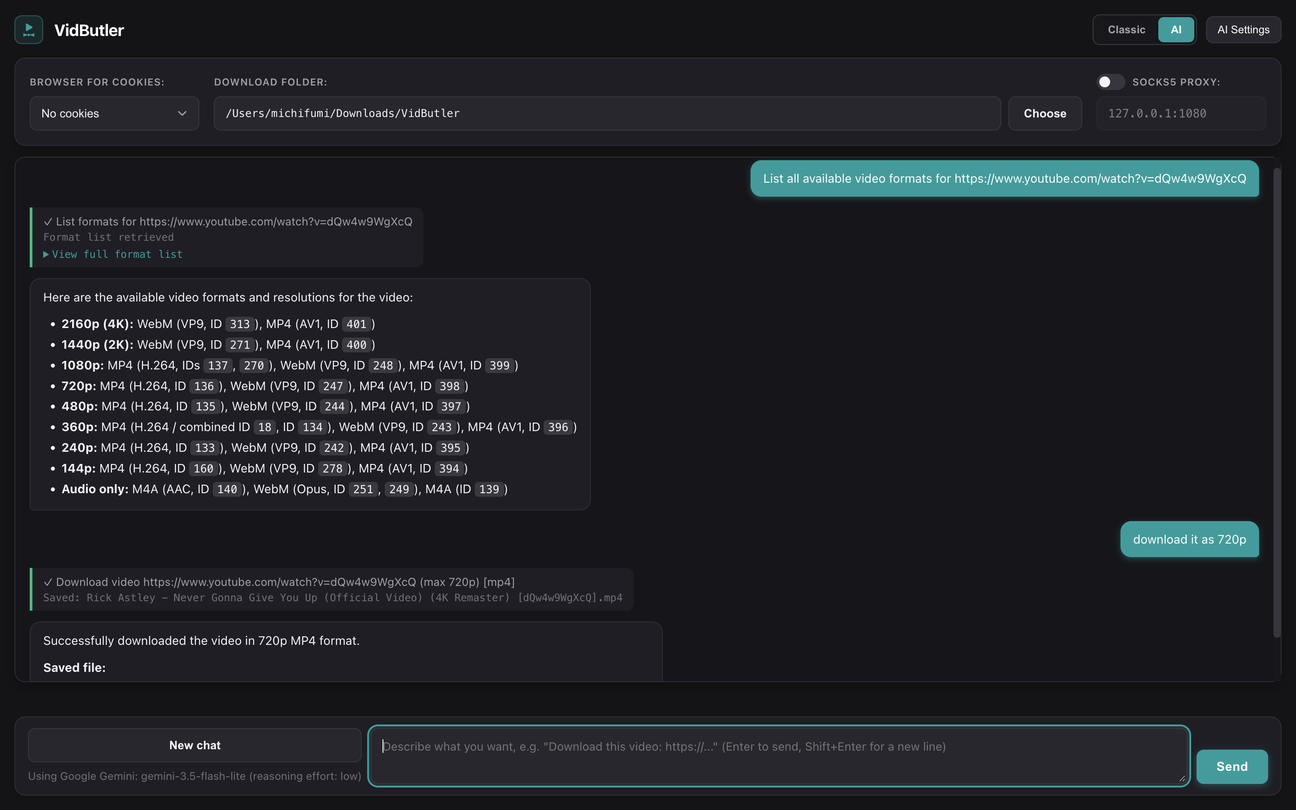
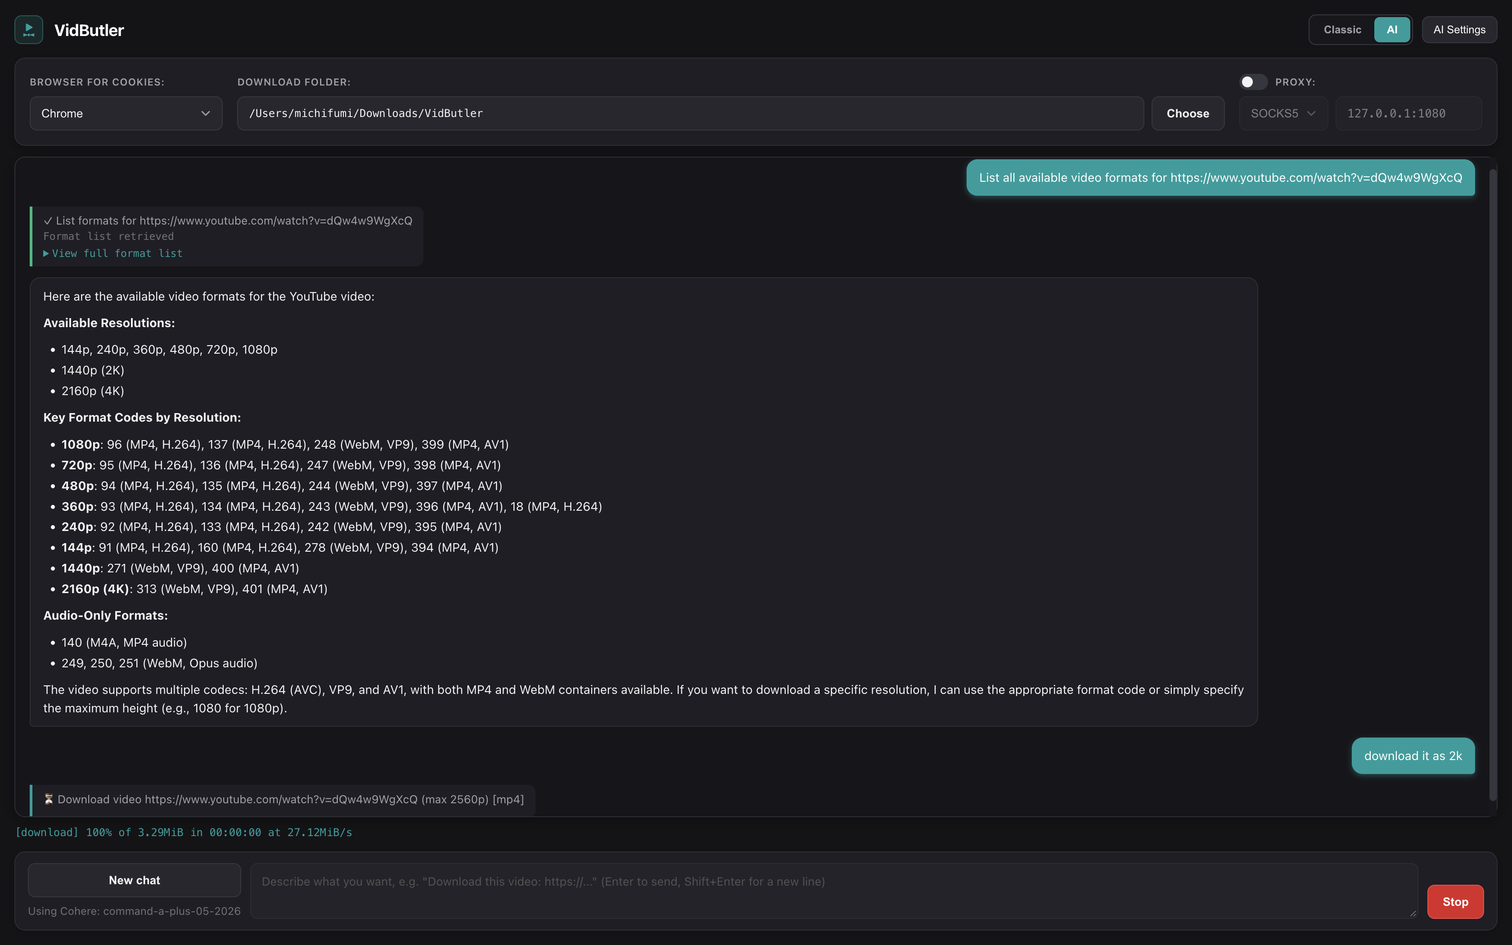
feat: implement exact video height handling and update related descriptions

Changed region(s): [[0.0, 0.2178, 0.9062, 0.9644], [0.0, 0.0, 1.0, 0.84], [0.9062, 0.9022, 1.0, 0.9956]]

diff --git a/src/llm/tools/download.ts b/src/llm/tools/download.ts
@@ -43,7 +43,8 @@ export function resolveFormatCode(formatCode?: string) {
 
 export const MERGE_FORMATS = ['mp4', 'mkv', 'webm'] as const;
 
-export function videoFormatArgs({ maxHeight, formatCode, container, compatible, recode = false }: {
+export function videoFormatArgs({ height, maxHeight, formatCode, container, compatible, recode = false }: {
+    height?: number;
     maxHeight?: number;
     formatCode?: string;
     container: typeof MERGE_FORMATS[number];
@@ -51,18 +52,18 @@ export function videoFormatArgs({ maxHeight, formatCode, container, compatible, 
     recode?: boolean;
 }) {
     const specific = [];
+    const filter = height ? `[height=${height}]` : maxHeight ? `[height<=${maxHeight}]` : '';
     if (compatible) {
-        const height = maxHeight ? `[height<=${maxHeight}]` : '';
-        specific.push('-f', `bv*[vcodec^=avc]${height}+ba[acodec^=mp4a]/b[vcodec^=avc][acodec^=mp4a]${height}`);
-    } else if (formatCode) {
+        specific.push('-f', `bv*[vcodec^=avc]${filter}+ba[acodec^=mp4a]/b[vcodec^=avc][acodec^=mp4a]${filter}`);
+    } else if (formatCode && !height) {
         specific.push('-f', resolveFormatCode(formatCode));
-    } else if (maxHeight) {
-        specific.push('-f', `bv*[height<=${maxHeight}]+ba/b[height<=${maxHeight}]`);
+    } else if (filter) {
+        specific.push('-f', `bv*${filter}+ba/b${filter}`);
     } else if (container === 'mp4') {
         specific.push('-f', 'bv*[vcodec^=avc]+ba[acodec^=mp4a]/bv*[ext=mp4]+ba[ext=m4a]/b[ext=mp4]/bv*+ba/b');
     }
 
-    if (container === 'mp4' && maxHeight && !formatCode && !compatible) {
+    if (container === 'mp4' && (height || (maxHeight && !formatCode)) && !compatible) {
         // Pick the highest resolution first; prefer MP4-compatible codecs only as a tie-breaker.
         // Let yt-dlp use MKV when the chosen streams cannot be merged into MP4.
         specific.push('--merge-output-format', 'mp4/mkv', '--format-sort', 'res,vcodec:h264,ext:mp4:m4a');
@@ -73,28 +74,36 @@ export function videoFormatArgs({ maxHeight, formatCode, container, compatible, 
     return specific;
 }
 
+export function explainResolutionFailure(result: Awaited<ReturnType<typeof runDownload>>, height?: number) {
+    if (height && !result.ok && !result.cancelled && /Requested format is not available/i.test(result.output)) {
+        return { ...result, error: MESSAGES.exactResolutionUnavailable(height) };
+    }
+    return result;
+}
+
 const langProperty = { type: 'string', description: 'Subtitle language code from list_subtitles, e.g. "en".' };
 
 export const downloadTools = [
     defineTool({
         name: TOOL_NAMES.downloadVideo,
         description:
-            'Download a video to the user\'s download folder with thumbnail embedded. Supports a maximum resolution, exact format codes, or a compatible H.264/AAC download. Only downloads a single video unless playlist is true.',
+            'Download a video to the user\'s download folder with thumbnail embedded. Supports exact or maximum resolution, exact format codes, or a compatible H.264/AAC download. Only downloads a single video unless playlist is true.',
         risk: playlistRisk,
         properties: {
             url: urlProperty,
+            height: { type: 'integer', description: MESSAGES.exactVideoHeightDescription },
             max_height: {
                 type: 'integer',
-                description: 'Optional maximum video height in pixels, e.g. 1080, 720 or 480. Omit for best quality.'
+                description: MESSAGES.maxVideoHeightDescription
             },
             format_code: {
                 type: 'string',
-                description: 'Optional exact yt-dlp format code from list_formats (e.g. exact IDs like "137+140-0"). Prefer max_height instead of format_code for standard resolution requests (1080p, 720p, etc.).'
+                description: 'Optional exact yt-dlp format code from list_formats (e.g. "137+140-0"). Use height instead for standard resolution requests (1080p, 720p, etc.).'
             },
             container: {
                 type: 'string',
                 enum: MERGE_FORMATS,
-                description: 'Optional output container. Default: "mp4". With max_height, resolution takes priority over codecs and MP4 may fall back to MKV if needed.'
+                description: 'Optional output container. Default: "mp4". With height or max_height, resolution takes priority over codecs and MP4 may fall back to MKV if needed.'
             },
             compatible: {
                 type: 'boolean',
@@ -105,12 +114,14 @@ export const downloadTools = [
         required: ['url'],
         describe: (a) =>
             `Download ${a.playlist ? 'playlist' : 'video'} ${a.url}` +
+            (a.height ? ` (${a.height}p)` : '') +
             (a.max_height ? ` (max ${a.max_height}p)` : '') +
             (a.format_code ? ` (format ${a.format_code})` : '') +
             (a.compatible ? ' (H.264/AAC compatible)' : '') +
             (a.container ? ` [${a.container}]` : ''),
         async run(args, ctx) {
             const url = validateUrl(args.url);
+            const height = validateIntRange(args.height, 144, 4320, 'height');
             const maxHeight = validateIntRange(args.max_height, 144, 4320, 'max_height');
             const formatCode = args.format_code ? validateFormatCode(args.format_code) : undefined;
             const container = args.container
@@ -122,13 +133,17 @@ export const downloadTools = [
                 throw new ValidationError('compatible requires MP4 and cannot be combined with format_code');
             }
 
-            const specific = videoFormatArgs({ maxHeight, formatCode, container, compatible });
+            const specific = videoFormatArgs({ height, maxHeight, formatCode, container, compatible });
+            if (height) {
+                // Keep existing downloads at other resolutions from satisfying this request.
+                specific.push('--ignore-config', '-o', `%(title).140B [%(id).40B] [${height}p].%(ext)s`);
+            }
 
             if (container !== 'webm') {
                 specific.push('--convert-thumbnails', 'jpg', '--embed-thumbnail');
             }
 
-            return runDownload(specific, url, ctx, { playlist });
+            return explainResolutionFailure(await runDownload(specific, url, ctx, { playlist }), height);
         }
     }),
     defineTool({

diff --git a/test/agent.test.js b/test/agent.test.js
@@ -60,6 +60,68 @@ test('compatible video download requires H.264 and AAC without a codec fallback'
     await assert.rejects(tool.run({ url: 'https://example.com/v', compatible: 'true' }, {}), /compatible/);
 });
 
+test('exact video resolution applies to both muxed and split stream selectors', () => {
+    for (const [container, compatible] of [['mp4', false], ['webm', false], ['mp4', true]]) {
+        const args = videoFormatArgs({ height: 1440, container, compatible });
+        const selector = args[args.indexOf('-f') + 1];
+        assert.equal(selector.split('/').length, 2);
+        assert.ok(selector.split('/').every(branch => branch.includes('[height=1440]')));
+    }
+});
+
+test('a 2K follow-up overrides the model’s 2560p limit and unrelated format ID', async (t) => {
+    const downloader = t.mock.method(taskManager, 'spawnProcess', () => spawn(process.execPath, ['-e', '']));
+    const url = 'https://www.youtube.com/watch?v=dQw4w9WgXcQ';
+    const events = [];
+    await runAgent({
+        provider: scriptedProvider([
+            { toolCalls: [call('download_video', { url, max_height: 2560, format_code: '313+140' })] },
+            { text: 'done' }
+        ]),
+        system: 's',
+        history: [{ role: 'user', text: `List formats for ${url}` }],
+        userText: 'download it as 2k',
+        ctx: { downloadFolder: tmpdir() },
+        onEvent: (e) => events.push(e)
+    });
+    const start = events.find(e => e.type === 'tool_start');
+    assert.equal(start.args.height, 1440);
+    assert.equal(start.args.max_height, undefined);
+    assert.equal(start.args.format_code, undefined);
+    const [, , args] = downloader.mock.calls[0].arguments;
+    assert.equal(args[args.indexOf('-f') + 1], 'bv*[height=1440]+ba/b[height=1440]');
+    assert.ok(args[args.indexOf('-o') + 1].includes('1440p'));
+});
+
+test('an unavailable exact resolution stops without retrying at another resolution', async (t) => {
+    const downloader = t.mock.method(taskManager, 'spawnProcess', () => spawn(process.execPath, [
+        '-e', 'console.error("ERROR: Requested format is not available"); process.exitCode = 1;'
+    ]));
+    const tool = getTool('download_video');
+    const result = await tool.run({ url: 'https://example.com/v', height: 1440 }, { downloadFolder: tmpdir() });
+    assert.equal(result.ok, false);
+    assert.deepEqual(result.files, []);
+    assert.match(result.error, /1440p.*ask before choosing a different resolution/i);
+    assert.equal(downloader.mock.callCount(), 1);
+});
+
+test('video clips distinguish an exact resolution from an explicit cap', async (t) => {
+    const downloader = t.mock.method(taskManager, 'spawnProcess', () => spawn(process.execPath, ['-e', '']));
+    const url = 'https://example.com/v';
+    for (const [request, operator] of [['2560x1440', '='], ['2560\u00D71440', '='], ['up to 1440p', '<=']]) {
+        await runAgent({
+            provider: scriptedProvider([
+                { toolCalls: [call('download_section', { url, media_type: 'video', start_time: '0:10', end_time: '0:20', max_height: 2160 })] },
+                { text: 'done' }
+            ]),
+            system: 's', history: [], userText: `Clip 0:10 to 0:20 in ${request} from ${url}`,
+            ctx: { downloadFolder: tmpdir() }
+        });
+        const [, , args] = downloader.mock.calls.at(-1).arguments;
+        assert.equal(args[args.indexOf('-f') + 1], `bv*[height${operator}1440]+ba/b[height${operator}1440]`);
+    }
+});
+
 test('every tool has a valid declaration and risk', () => {
     const decls = getToolDeclarations();
     assert.equal(decls.length, TOOLS.length);
@@ -130,8 +192,8 @@ test('the agent downloads video and audio sections and reports the finished clip
         assert.equal(option('-P'), folder);
         return option;
     });
-    assert.match(commands[0]('-f'), /height<=720/);
-    assert.match(commands[0]('-o'), /\[clip 75\.25-150\.5 video mp4 720p-max\]/);
+    assert.match(commands[0]('-f'), /height=720/);
+    assert.match(commands[0]('-o'), /\[clip 75\.25-150\.5 video mp4 720p\]/);
     assert.match(commands[1]('-o'), /\[clip 75\.25-150\.5 audio mp3\]/);
     assert.equal(commands[1]('--audio-format'), 'mp3');
     assert.deepEqual(progress, ['[download] Finished', '[download] Finished']);
@@ -501,7 +563,8 @@ test('a delete_files call with non-string entries is rejected instead of crashin
     assert.equal(toolMessage.result.ok, false);
 });
 
-test('download_video reconciles max_height from user text (e.g. 720p)', async () => {
+test('download_video uses an exact height for a plain 720p request', async (t) => {
+    t.mock.method(taskManager, 'spawnProcess', () => spawn(process.execPath, ['-e', '']));
     const events = [];
     const provider = scriptedProvider([
         { toolCalls: [call('download_video', { url: 'https://youtube.com/watch?v=height-test' })] },
@@ -519,12 +582,13 @@ test('download_video reconciles max_height from user text (e.g. 720p)', async ()
 
     const starts = events.filter((e) => e.type === 'tool_start');
     assert.equal(starts.length, 1);
-    assert.equal(starts[0].args.max_height, 720);
+    assert.equal(starts[0].args.height, 720);
     assert.equal(starts[0].args.container, 'mp4');
-    assert.match(starts[0].description, /max 720p/);
+    assert.match(starts[0].description, /\(720p\)/);
 });
 
-test('download_video resolves resolution or quality alias to max_height', async () => {
+test('download_video resolves a resolution alias to an exact height', async (t) => {
+    t.mock.method(taskManager, 'spawnProcess', () => spawn(process.execPath, ['-e', '']));
     const events = [];
     const provider = scriptedProvider([
         { toolCalls: [call('download_video', { url: 'https://youtube.com/watch?v=alias-test', resolution: '480p' })] },
@@ -542,8 +606,8 @@ test('download_video resolves resolution or quality alias to max_height', async 
 
     const starts = events.filter((e) => e.type === 'tool_start');
     assert.equal(starts.length, 1);
-    assert.equal(starts[0].args.max_height, 480);
-    assert.match(starts[0].description, /max 480p/);
+    assert.equal(starts[0].args.height, 480);
+    assert.match(starts[0].description, /\(480p\)/);
 });
 
 test('download_audio reconciles format to best by default and mp3 for compatibility/device issues', async () => {

diff --git a/src/llm/agent-tool-args.ts b/src/llm/agent-tool-args.ts
@@ -10,6 +10,16 @@ function asArguments(value: unknown): ToolArguments | undefined {
     return value && typeof value === 'object' ? value as ToolArguments : undefined;
 }
 
+function parseVideoHeight(value: string) {
+    const token = value.toLowerCase().trim();
+    if (token === '2k' || token === 'qhd') return 1440;
+    if (token === '4k' || token === 'uhd') return 2160;
+    if (token === '8k') return 4320;
+    const match = token.match(/^(?:\d{3,5}\s*[x\u00D7]\s*)?(\d{3,4})p?$/);
+    const height = Number(match?.[1]);
+    return height >= 144 && height <= 4320 ? height : undefined;
+}
+
 function lastToolArgument(message: Extract<ChatMessage, { role: 'assistant' }>, name: string) {
     if (!Array.isArray(message.toolCalls)) return undefined;
     for (const call of message.toolCalls) {
@@ -403,30 +413,28 @@ export async function normalizeToolArgs(call: ToolCall, tool: Tool, history: Cha
                 supplied.format_code = args.format_code;
             }
         }
+    }
 
-        if (!args.max_height) {
-            const rawHeight = args.height ?? args.resolution ?? args.res ?? args.quality ?? args.maxHeight;
-            if (rawHeight !== undefined && rawHeight !== null) {
-                const parsed = parseInt(String(rawHeight).replace(/[^0-9]/g, ''), 10);
-                if (Number.isInteger(parsed) && parsed >= 144 && parsed <= 4320) {
-                    args.max_height = parsed;
-                }
+    if (call.name === TOOL_NAMES.downloadVideo || (call.name === TOOL_NAMES.downloadSection && args.media_type === 'video')) {
+        const userText = (history.findLast(m => m.role === 'user')?.text || '').replace(/https?:\/\/\S+/gi, ' ');
+        const request = userText.match(/\b(?:(up to|at most|no higher than|no more than|max(?:imum)?|under)\s+)?(\d{3,5}\s*[x\u00D7]\s*\d{3,4}p?|\d{3,4}p|[248]k|qhd|uhd)\b(\s+or (?:lower|less|below)\b)?/i);
+        const requestedHeight = request && parseVideoHeight(request[2]);
+        if (requestedHeight) {
+            const capped = request[1] || request[3];
+            args.height = capped ? undefined : requestedHeight;
+            args.max_height = capped ? requestedHeight : undefined;
+            // A model-supplied format selector could bypass the user's height constraint.
+            delete args.format_code;
+            if (supplied) delete supplied.format_code;
+        } else if (args.height == null && args.max_height == null) {
+            const alias = args.resolution ?? args.res ?? args.quality;
+            if (typeof alias === 'string' || typeof alias === 'number') args.height = parseVideoHeight(String(alias));
+            if (args.height == null && (typeof args.maxHeight === 'string' || typeof args.maxHeight === 'number')) {
+                args.max_height = parseVideoHeight(String(args.maxHeight));
             }
         }
-
-        if (!args.max_height) {
-            const lastUser = history.findLast((m) => m.role === 'user');
-            const userText = lastUser?.text || '';
-            const heightMatch = userText.match(/\b(2160|1440|1080|720|480|360|240|144)p?\b/i);
-            if (heightMatch) {
-                args.max_height = parseInt(heightMatch[1], 10);
-            } else if (/\b4k\b/i.test(userText)) {
-                args.max_height = 2160;
-            } else if (/\b2k\b/i.test(userText)) {
-                args.max_height = 1440;
-            }
-        }
-        if (supplied && args.max_height) {
+        if (supplied) {
+            supplied.height = args.height;
             supplied.max_height = args.max_height;
         }
     }

diff --git a/src/llm/tools/section.ts b/src/llm/tools/section.ts
@@ -3,7 +3,7 @@ import { aacEncoderArgs, videoBitrate } from '../../core/encoding.ts';
 import { validateEnum, validateIntRange, validateTimestamp, validateUrl, ValidationError } from '../validate.ts';
 import { AUDIO_FORMATS, defineTool, runDownload, urlProperty } from './common.ts';
 import type { ToolContext } from './common.ts';
-import { MERGE_FORMATS, videoFormatArgs } from './download.ts';
+import { explainResolutionFailure, MERGE_FORMATS, videoFormatArgs } from './download.ts';
 import { TOOL_NAMES } from './names.ts';
 
 const CLIP_OUTPUT_ARGS = ['-abort_on', 'empty_output'];
@@ -64,7 +64,8 @@ export const downloadSectionTool = defineTool({
         media_type: { type: 'string', enum: ['video', 'audio'], description: MESSAGES.clipMediaTypeDescription },
         start_time: { type: 'string', description: MESSAGES.clipTimeDescription('Start', '0:45') },
         end_time: { type: 'string', description: MESSAGES.clipTimeDescription('End', '2:10.500') },
-        max_height: { type: 'integer', description: MESSAGES.clipVideoHeightDescription },
+        height: { type: 'integer', description: MESSAGES.exactVideoHeightDescription },
+        max_height: { type: 'integer', description: MESSAGES.maxVideoHeightDescription },
         container: { type: 'string', enum: MERGE_FORMATS, description: MESSAGES.clipVideoContainerDescription },
         format: { type: 'string', enum: AUDIO_FORMATS, description: MESSAGES.clipAudioFormatDescription }
     },
@@ -86,6 +87,7 @@ export const downloadSectionTool = defineTool({
         ];
         let variant;
         let container: typeof MERGE_FORMATS[number] | undefined;
+        let height;
         let maxHeight;
         let format;
         if (mediaType === 'audio') {
@@ -94,21 +96,22 @@ export const downloadSectionTool = defineTool({
             specific.push('-f', 'bestaudio/best', '-x', '--audio-format', format);
         } else {
             container = validateEnum(args.container, MERGE_FORMATS, 'container', 'mp4');
+            height = validateIntRange(args.height, 144, 4320, 'height');
             maxHeight = validateIntRange(args.max_height, 144, 4320, 'max_height');
-            variant = `video ${container}${maxHeight ? ` ${maxHeight}p-max` : ''}`;
-            specific.push(...videoFormatArgs({ container, maxHeight, recode: container === 'webm' }));
+            variant = `video ${container}${height ? ` ${height}p` : maxHeight ? ` ${maxHeight}p-max` : ''}`;
+            specific.push(...videoFormatArgs({ container, height, maxHeight, recode: container === 'webm' }));
         }
         specific.push('-o', `%(title).140B [%(id).40B] [clip ${start}-${end} ${variant}].%(ext)s`);
 
         const outputArgs = [...CLIP_OUTPUT_ARGS];
         if (mediaType === 'audio') outputArgs.push('-vn');
-        if (container === 'mp4') outputArgs.push('-b:v', videoBitrate('h264', maxHeight));
+        if (container === 'mp4') outputArgs.push('-b:v', videoBitrate('h264', height ?? maxHeight));
         const result = process.platform === 'darwin' && (container === 'mp4' || format === 'm4a')
-            ? await downloadMacAacClip(specific, url, ctx, { mediaType, maxHeight })
+            ? await downloadMacAacClip(specific, url, ctx, { mediaType, maxHeight: height ?? maxHeight })
             : await downloadWithOutputArgs(specific, url, ctx, outputArgs);
         if (result.ok && result.files.length === 0) {
             return { ...result, ok: false, error: MESSAGES.noClipSaved };
         }
-        return result;
+        return explainResolutionFailure(result, height);
     }
 });

diff --git a/src/llm/messages.js b/src/llm/messages.js
@@ -39,7 +39,10 @@ export const MESSAGES = {
     downloadSectionDescription: 'Download a time range from a single online video or audio source. The cut is re-encoded for accurate timing.',
     clipMediaTypeDescription: 'Choose video with sound, or audio only.',
     clipTimeDescription: (edge, example) => `${edge} timestamp from the start of the source. Use seconds, M:SS or H:MM:SS, optionally with milliseconds. Example ${example}.`,
-    clipVideoHeightDescription: 'Optional maximum video height in pixels, such as 720 or 1080.',
+    exactVideoHeightDescription: 'Exact video height in pixels (720, 1080, 1440 for 2K, or 2160 for 4K). Do not substitute another resolution.',
+    maxVideoHeightDescription: 'Maximum video height in pixels. Use for a cap, such as up to 1080p.',
+    /** @param {number} height */
+    exactResolutionUnavailable: (height) => `No downloadable ${height}p format matched the request. Check available formats and ask before choosing a different resolution.`,
     clipVideoContainerDescription: 'Container for a video clip. Defaults to MP4.',
     clipAudioFormatDescription: 'Output format for an audio-only clip. Defaults to best.',
     /** @param {Record<string, unknown>} args */
@@ -50,7 +53,7 @@ export const MESSAGES = {
     clipVideoToolboxFallback: 'VideoToolbox could not encode this clip. Retrying with FFmpeg’s default encoder…',
     clipAudioToolboxFallback: 'AudioToolbox could not encode this clip. Retrying with FFmpeg’s native AAC encoder…',
     noClipSaved: 'No clip was saved. Check that both timestamps are within the source duration.',
-    downloadSectionPrompt: (tool) => `- When the user asks to download or clip a time range from an online source, call ${tool} with media_type "video" or "audio", and start_time and end_time as timestamp strings. Ask for any missing or ambiguous times. Pass any requested video max_height or container, or audio format, to the same tool. If the clip cannot be downloaded, ask before downloading the full source.`,
+    downloadSectionPrompt: (tool) => `- When the user asks to download or clip a time range from an online source, call ${tool} with media_type "video" or "audio", and start_time and end_time as timestamp strings. Ask for any missing or ambiguous times. Pass the requested video height (or max_height for a cap), container, or audio format. If the clip cannot be downloaded, ask before downloading the full source.`,
     cancelledByUser: 'Cancelled by the user.',
     declinedByUser: 'The user declined to run this action.',
     toolNotRun: 'Not run: the request failed.',

diff --git a/src/llm/prompt.js b/src/llm/prompt.js
@@ -26,8 +26,8 @@ export function buildSystemPrompt({ downloadFolder, browser, proxyEnabled, platf
         '- If the user asks for something that needs a URL and no URL was provided or discussed, ask for it.',
         MESSAGES.transcriptPrompt(T.getVideoTranscript),
         MESSAGES.downloadSectionPrompt(T.downloadSection),
-        `- For full video downloads (including requests for 1080p, 720p, 4K, or best quality), use ${T.downloadVideo} with container: "mp4" and optional max_height (e.g. 1080, 720). When the user asks for a specific resolution (such as "720p" or "1080p"), always specify the corresponding integer in the max_height argument (e.g. max_height: 720). Do not call ${T.listFormats} unless the user explicitly asks to inspect formats or requests a specific custom stream combination.`,
-        '- A requested maximum resolution is not proof of the downloaded resolution. Do not claim it was achieved or explain why a resolution was unavailable without checking media information or available formats.',
+        `- For full video downloads, use ${T.downloadVideo}. Use height for an exact resolution (720p = 720, 2K/QHD = 1440, 4K = 2160). Height is the vertical pixel count, not the width. Use max_height only for an explicit cap, such as "up to 1080p". Omit both for best quality.`,
+        `- If the requested resolution cannot be downloaded, use ${T.listFormats} to check available formats if needed and ask before downloading a different resolution. Do not claim a resolution was achieved or unavailable without evidence.`,
         '- When the user asks for MP4, pass container: "mp4" to the video download tool you are using. A resolution-limited download prioritizes resolution over codec and may use MKV if needed; MP4 alone does not guarantee H.264 playback compatibility.',
         `- If a downloaded video cannot play and the user has not chosen a remedy, ask them to choose between re-encoding the existing file to H.264/AAC MP4 at its existing resolution (slower, possible quality loss) and downloading a compatible H.264/AAC MP4 (possibly lower resolution). Do not assume either choice. Compatibility depends on their device.`,
         `- If the user chooses the compatible download, call ${T.downloadVideo} with compatible: true and container: "mp4"; respect any requested maximum resolution. It fails if H.264/AAC streams are unavailable. If they choose conversion, use ${T.reencodeMp4} on the existing file.`,

diff --git a/src/llm/tools/info.ts b/src/llm/tools/info.ts
@@ -21,7 +21,7 @@ export const infoTools = [
     defineTool({
         name: TOOL_NAMES.listFormats,
         description:
-            'List the available formats and stream IDs of a video (yt-dlp -F). The full format list is retrieved and made available to the user in a collapsible view. When called, you must summarize the available resolutions (e.g. 4K, 1080p, 720p, audio) and key format codes in your reply. Use this ONLY when the user explicitly asks to see available formats or requests a specific custom stream combination. For standard resolution requests (e.g. 1080p, 720p), use download_video with max_height instead.',
+            'List available formats and exact stream IDs (yt-dlp -F). The full list is shown in a collapsible view. Summarize the actual resolutions and key format codes. Use this when the user asks to see formats, requests a custom stream combination, or an exact-resolution attempt could not find a matching format. For standard resolution downloads, use download_video with height.',
         properties: { url: urlProperty },
         required: ['url'],
         describe: (a) => `List formats for ${a.url || 'video'}`,
